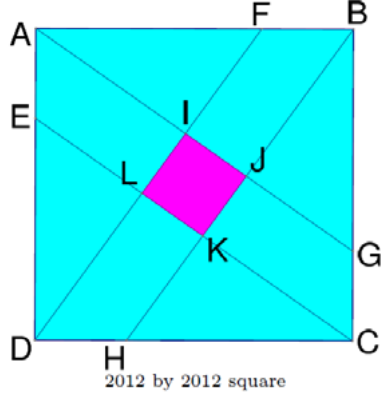
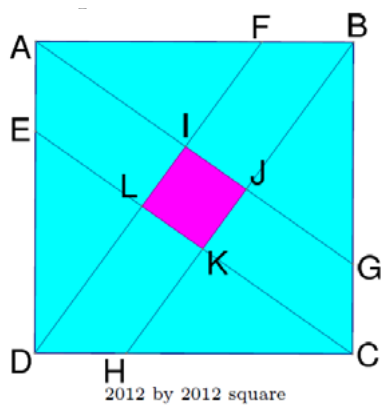
Columbus State 2012 #35 figure re-cropped
Claude-Session: https://claude.ai/code/session_013nf2N7ASSqLMJCjScvxecK

diff --git a/js/app.js b/js/app.js
@@ -10156,7 +10156,7 @@ The book remembers the last lesson you opened, in this browser, and the contents
   const hasProblemStatement = p => MAA_RE.test(p.ref) || !!archiveStatement(p);
   // Bumped by tools/fetch-live-statements.py whenever the statement files change, so a browser that
   // cached an older file loads the new one.
-  const STATEMENTS_V = 81;
+  const STATEMENTS_V = 82;
   const statementLoads = {};
   function loadStatements(file) {
     if (!statementLoads[file]) {

diff --git a/index.html b/index.html
@@ -241,6 +241,6 @@
   <script defer src="js/practice-sessions.js?v=7"></script>
   <script defer src="js/ui-icons.js?v=2"></script>
   <script defer src="js/accessibility.js?v=4"></script>
-  <script defer src="js/app.js?v=835"></script>
+  <script defer src="js/app.js?v=836"></script>
 </body>
 </html>
